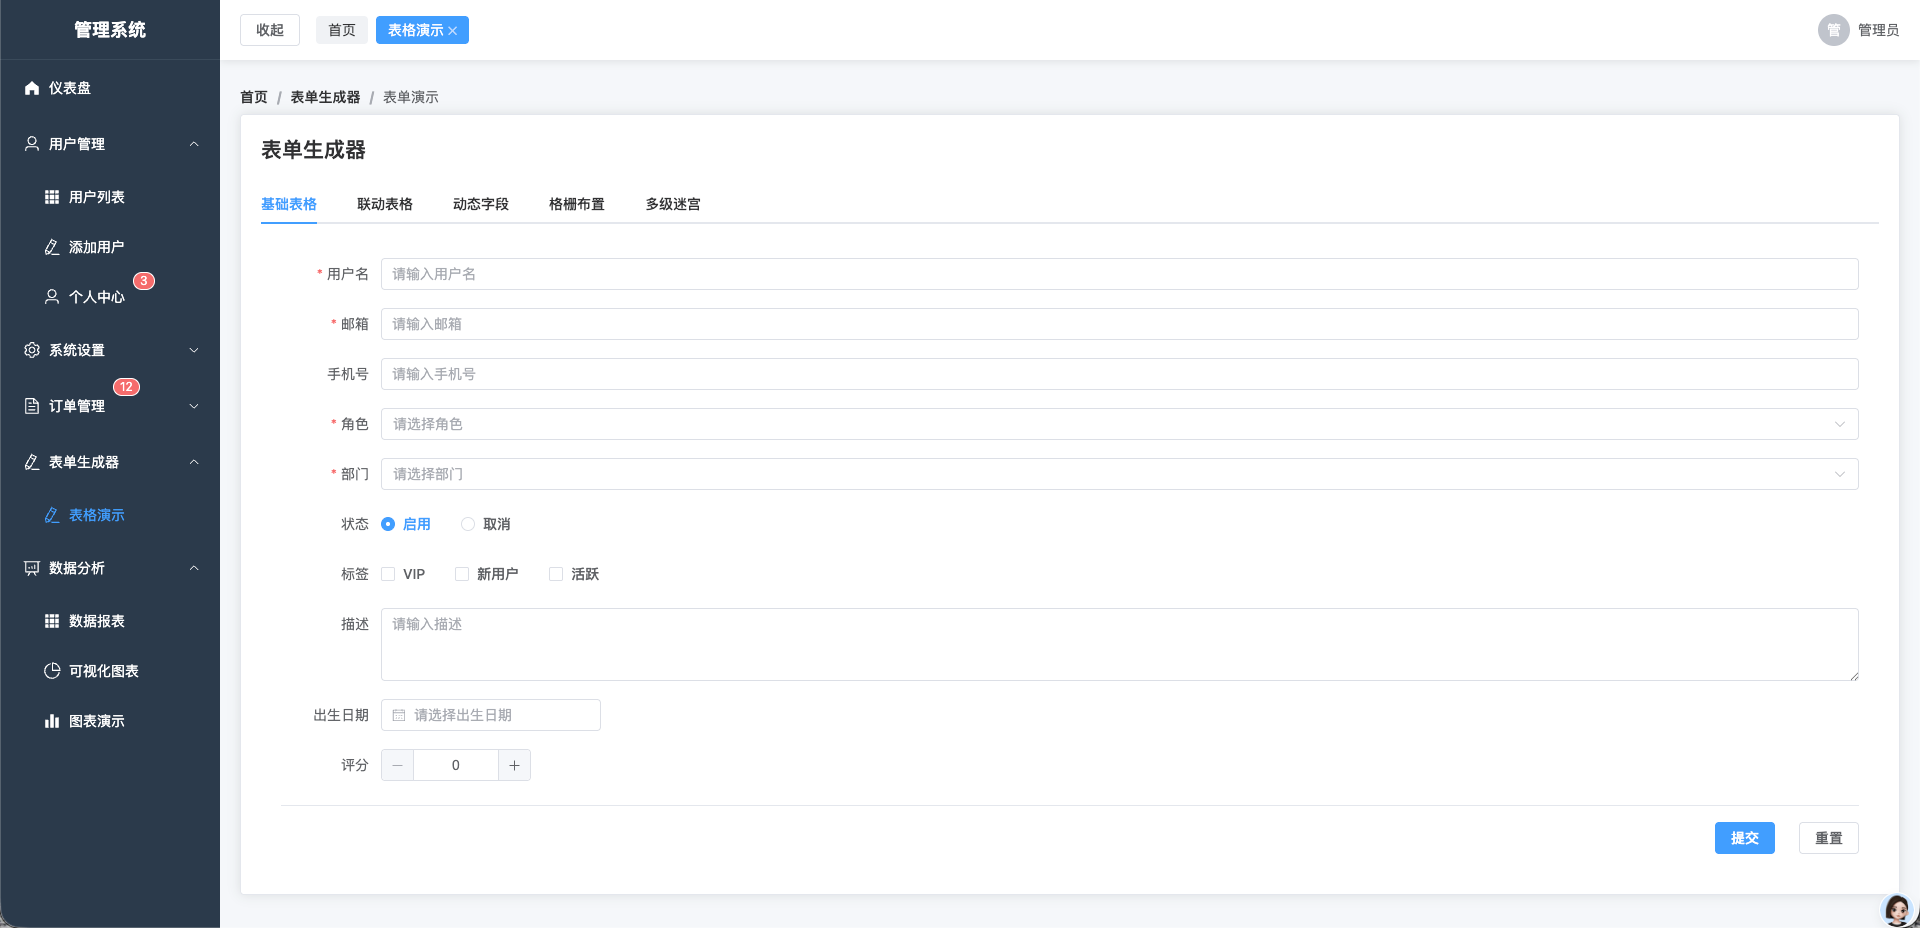
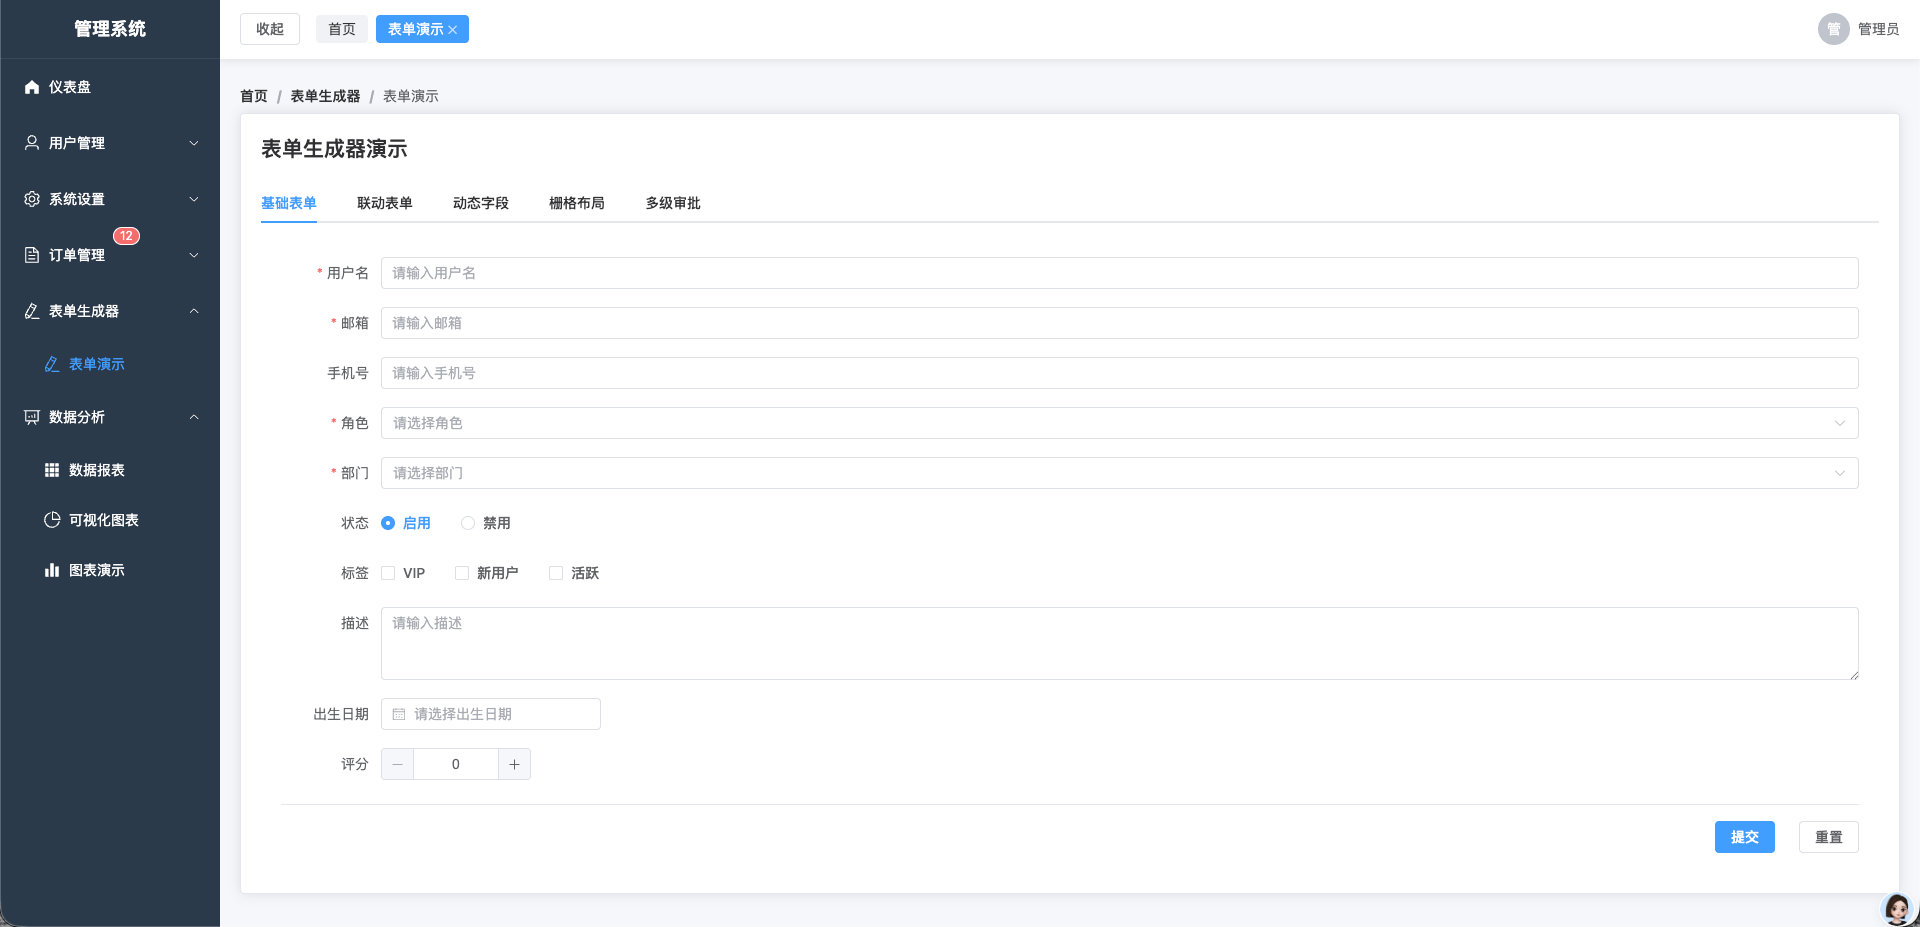
docs: 更新README截图引用并新增图表联动截图

diff --git a/README.md b/README.md
@@ -164,7 +164,8 @@ src/
   <img src="./public/screenshots/form-demo.png" width="800" alt="表单生成器"/><br/><br/>
   <strong>数据可视化</strong><br/>
   <img src="./public/screenshots/chart-demo.png" width="800" alt="数据可视化"/><br/><br/>
-  <img src="./public/screenshots/chart-demo-2.png" width="800" alt="图表联动"/>
+  <strong>图表联动</strong><br/>
+  <img src="./public/screenshots/chart.png" width="800" alt="图表联动"/>
 </p>
 
 ## 核心用法示例